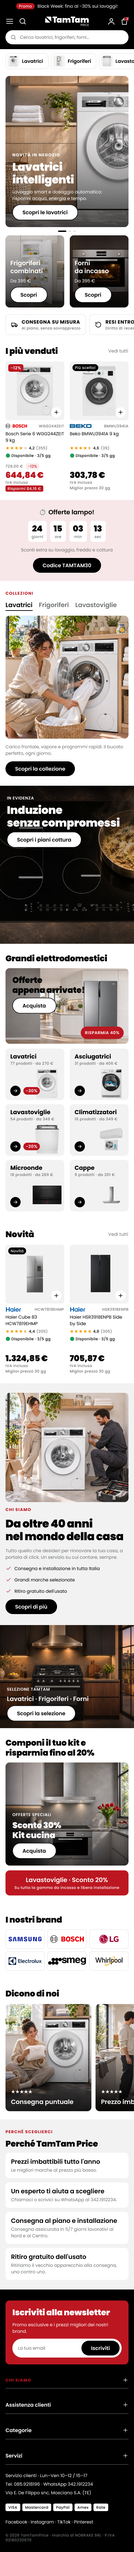
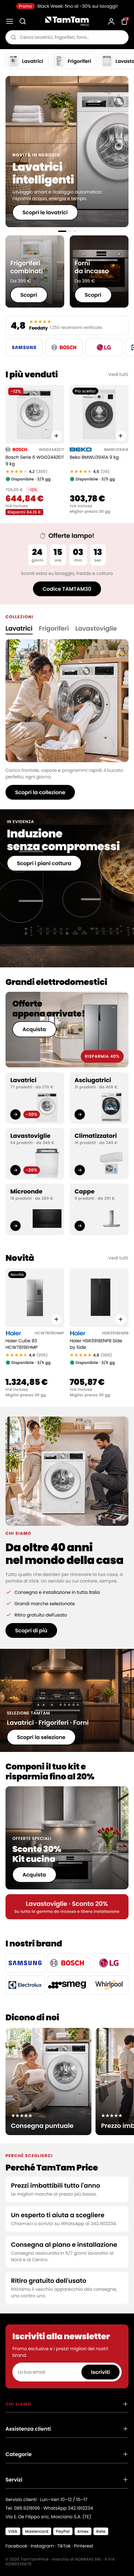
TamTam: Feedaty + brand carousel band under the hero, brand archive boards 02c and M02c
Claude-Session: https://claude.ai/code/session_01DzDcr4Xa4AaqXv1Nbqd2T5

diff --git a/docs/figma/home-hero-round-2.md b/docs/figma/home-hero-round-2.md
@@ -66,7 +66,7 @@ previous state.
 
 Renders: `docs/screenshots/after/<brand>-01-home.png`.
 
-## Proposal: band under the TamTam hero (2026-11-17, not applied yet)
+## Band under the TamTam hero (2026-11-17): version C applied
 
 The 4 generic advantages under the hero (`1:4459`: consegna al piano, resi 14 giorni, supporto, pagamenti sicuri)
 should be replaced. The comparison board **`PROVA · Fascia sotto la hero · TamTam (17/11)`** (`280:8735`, x 27200 on
@@ -84,3 +84,15 @@ for the brand archive. The previews are clones of the homepage with prototype li
 unchanged. Placeholders: Feedaty score and count, the instalment providers.
 
 Render: `docs/screenshots/after/tamtam-price-prova-fascia-hero.png`.
+
+**Applied: C · Feedaty + marchi** (chosen by the client).
+
+| | Desktop | Mobile |
+|---|---|---|
+| Band | `Fascia fiducia · Feedaty + marchi` (`283:10955`) in the homepage `Main` at y 620; the old strip `1:4459` is hidden there and copied into `230:7443` | M01 section `110:1141` renamed `Fascia fiducia · Feedaty + marchi`: Feedaty box (4,8, stars, "1.250 recensioni verificate") + scrolling row of 8 logo tiles; the old row `110:1142` is hidden; backup `BACKUP M01 · Vantaggi …` at x −900 |
+| Brand archive (new) | **02c PLP · Marca · Samsung** (`283:10983`, x 27200 y 2400): copy of PLP 02 with Samsung logo, "Elettrodomestici Samsung", breadcrumb Home / Marche / Samsung, sub-categories, Samsung filter ticked, 6 cards switched to Samsung | **M02c Marca · Samsung · mobile** (`284:11508`, end of the mobile row) |
+| Links | every logo tile → 02c | every logo tile → M02c |
+
+All logos open the Samsung example for now: in the theme each logo links to its own brand collection
+(`/collections/vendors?q=<brand>` or a collection per brand). Samsung model names, codes and prices on 02c / M02c are
+placeholders, like the Feedaty score and review count.

diff --git a/CLAUDE.md b/CLAUDE.md
@@ -62,7 +62,8 @@ Full-page renders: `docs/screenshots/after/*.png` (current) and `docs/screenshot
   savings, reviews), desktop and mobile (M01, M03). Backups and how to revert: [docs/figma/tamtam-home-pdp-refresh.md](docs/figma/tamtam-home-pdp-refresh.md).
 - **Homepages round 2 (2026-11-16, desktop + mobile M01):** compact category chip bars (TamTam, MisterCucina), "I più venduti"
   right after the hero on TamTam, new Trovaincasso hero ("La cappa ora è nel piano."), shop-the-look hotspots,
-  fixed reviews / newsletter / pills sections, stronger promos, full category ticker. Backups (copies named "BACKUP …
+  fixed reviews / newsletter / pills sections, stronger promos, full category ticker. TamTam (2026-11-17): Feedaty +
+  brand-logo band under the hero and brand archive boards 02c / M02c (Samsung). Backups (copies named "BACKUP …
   17/11") and how to revert: [docs/figma/home-hero-round-2.md](docs/figma/home-hero-round-2.md).
 - **Theme code (2026-11-13):** `shopify/invoice-request/` holds the cart "Richiedi fattura" block (Liquid snippet + JS +
   tests, `node --test shopify/invoice-request/tests/*.test.*`). It is the only code in the repo.
